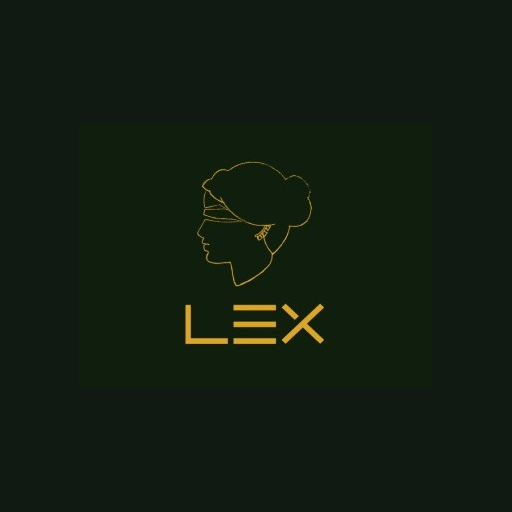
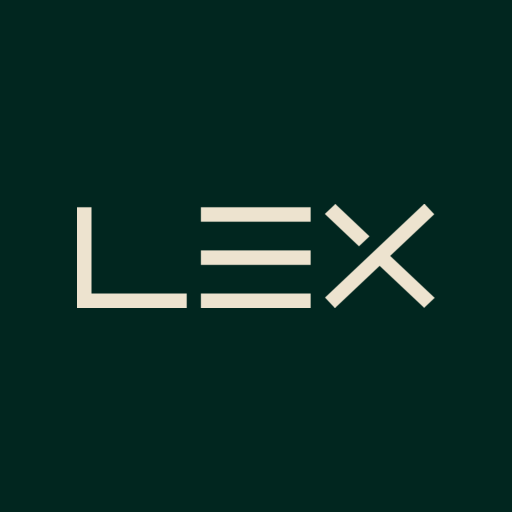
feat(fase-2a): PWA na identidade nova — #174034, #121212 e ícone LEX
manifest: theme_color #174034 (o cabeçalho), background_color #121212,
e os dois PNG também como maskable. index.html: theme-color #174034.
icone-192/512.png regerados com o convert (ImageMagick) a partir de
LEX_horizontal.svg, bege sobre #01261F, logo a 70% da largura (dentro
da área segura de 80%). O teste do manifest passa a exigir as cores
novas, o maskable e que favicon e ícones existam em public/.

Changed region(s): [[0.125, 0.3125, 0.8438, 0.6875]]

diff --git a/tests/pwa/pwa.test.js b/tests/pwa/pwa.test.js
@@ -17,7 +17,8 @@
 
 import { test, describe, before } from 'node:test';
 import assert from 'node:assert/strict';
-import { readFileSync } from 'node:fs';
+import { readFileSync, existsSync } from 'node:fs';
+import { join } from 'node:path';
 import { runInNewContext } from 'node:vm';
 
 const raiz = new URL('../../', import.meta.url).pathname;
@@ -135,6 +136,36 @@ describe('PWA — manifest', () => {
       variaveis.toLowerCase().includes(manifest.theme_color.toLowerCase()),
       'theme_color precisa ser uma cor do tema, senão a barra do sistema destoa do app'
     );
+  });
+
+  // Fase 2a (DEC-077): a identidade nova. A barra do sistema tem a cor do
+  // cabeçalho, e a tela de abertura a do fundo do app — as duas declaradas em
+  // variables.css, e a mesma cor no manifest e no index.html.
+  test('as cores são as da marca nova, iguais no manifest e no index.html', () => {
+    assert.equal(manifest.theme_color.toUpperCase(), '#174034');
+    assert.equal(manifest.background_color.toUpperCase(), '#121212');
+    assert.ok(ler('src/styles/variables.css').toUpperCase().includes(manifest.background_color.toUpperCase()),
+      'background_color precisa ser o fundo do app');
+    const html = ler('index.html').replace(/<!--[\s\S]*?-->/g, '');
+    const meta = html.match(/name="theme-color"\s+content="([^"]+)"/);
+    assert.ok(meta, 'meta theme-color');
+    assert.equal(meta[1].toUpperCase(), manifest.theme_color.toUpperCase());
+  });
+
+  test('os dois tamanhos também são maskable, e os arquivos existem', () => {
+    // O conteúdo dos PNGs fica dentro dos 80% centrais (a área segura): o
+    // Android pode recortar o ícone em círculo sem cortar a logo.
+    for (const tamanho of ['192x192', '512x512']) {
+      assert.ok(manifest.icons.some((i) => i.sizes === tamanho && /\bmaskable\b/.test(i.purpose ?? '')),
+        `${tamanho} maskable`);
+    }
+    for (const icone of manifest.icons) {
+      assert.ok(existsSync(join(raiz, 'public', icone.src)), `${icone.src} existe em public/`);
+    }
+    const html = ler('index.html').replace(/<!--[\s\S]*?-->/g, '');
+    for (const [, href] of html.matchAll(/rel="(?:icon|apple-touch-icon)"[^>]*href="([^"]+)"/g)) {
+      assert.ok(existsSync(join(raiz, 'public', href)), `favicon/apple-touch-icon ${href} existe`);
+    }
   });
 
   test('start_url aponta para uma rota que existe', () => {

diff --git a/index.html b/index.html
@@ -11,7 +11,7 @@
     <title>LEX</title>
     <!-- PWA (Fase 4.5) -->
     <link rel="manifest" href="/manifest.webmanifest" />
-    <meta name="theme-color" content="#B89D4B" />
+    <meta name="theme-color" content="#174034" />
     <meta name="description" content="Clientes, processos, documentos e financeiro do escritório." />
     <link rel="preconnect" href="https://fonts.googleapis.com">
     <link href="https://fonts.googleapis.com/css2?family=Inter:wght@400;500;600;700&display=swap" rel="stylesheet">
